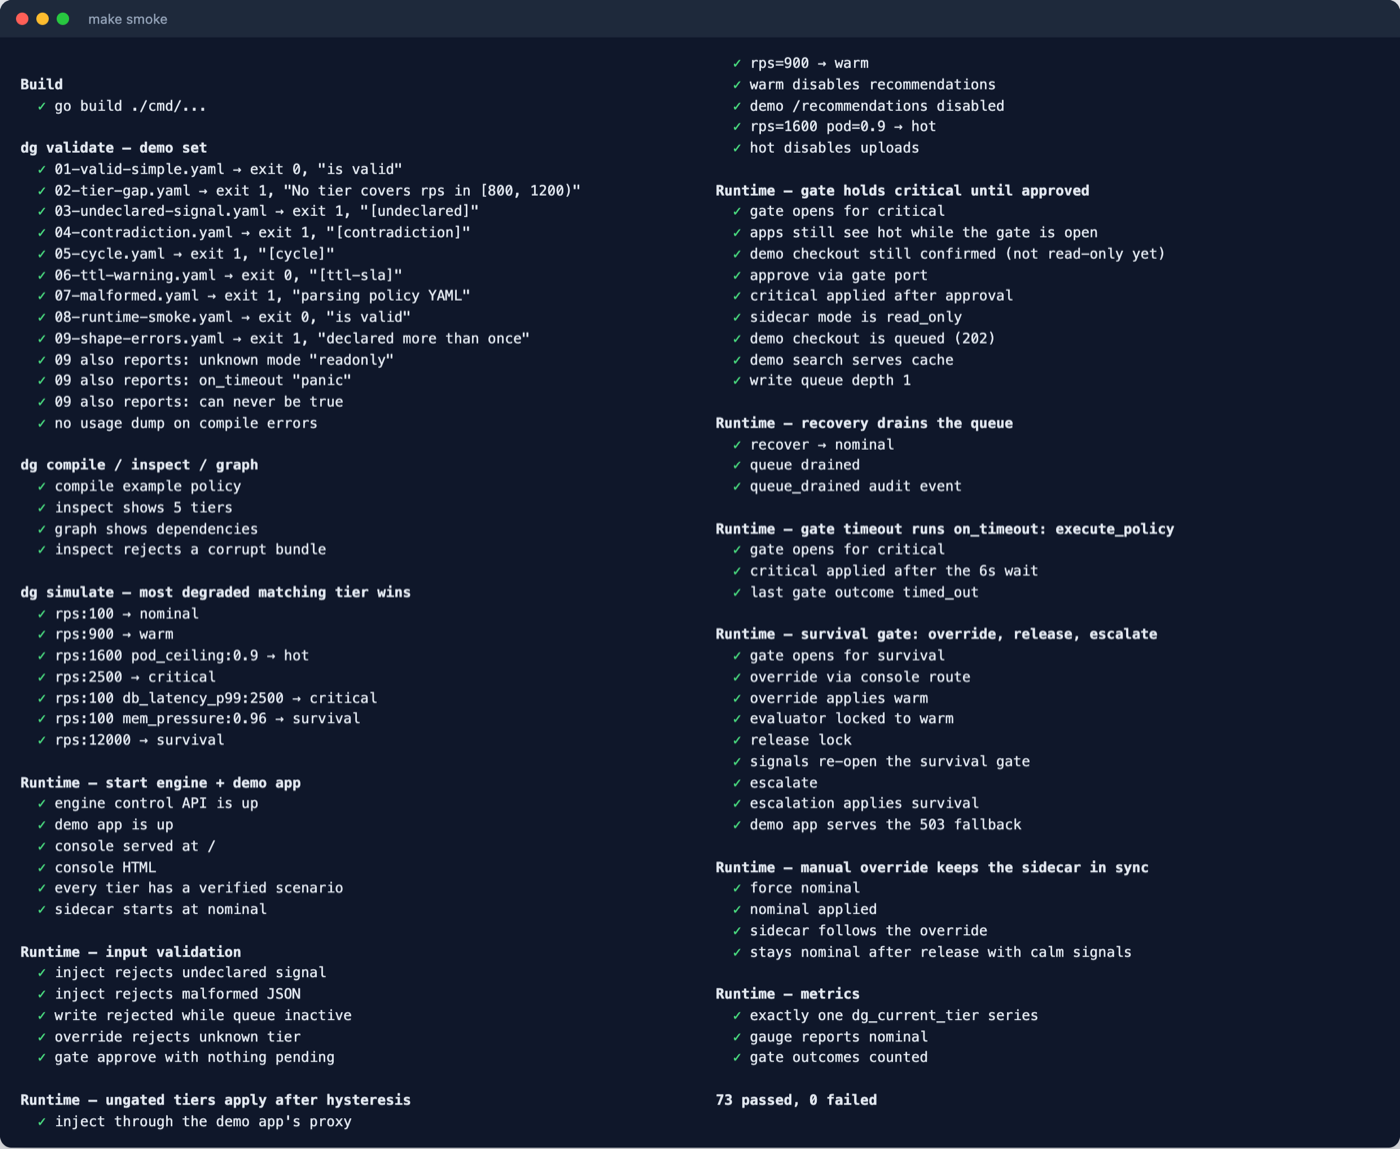
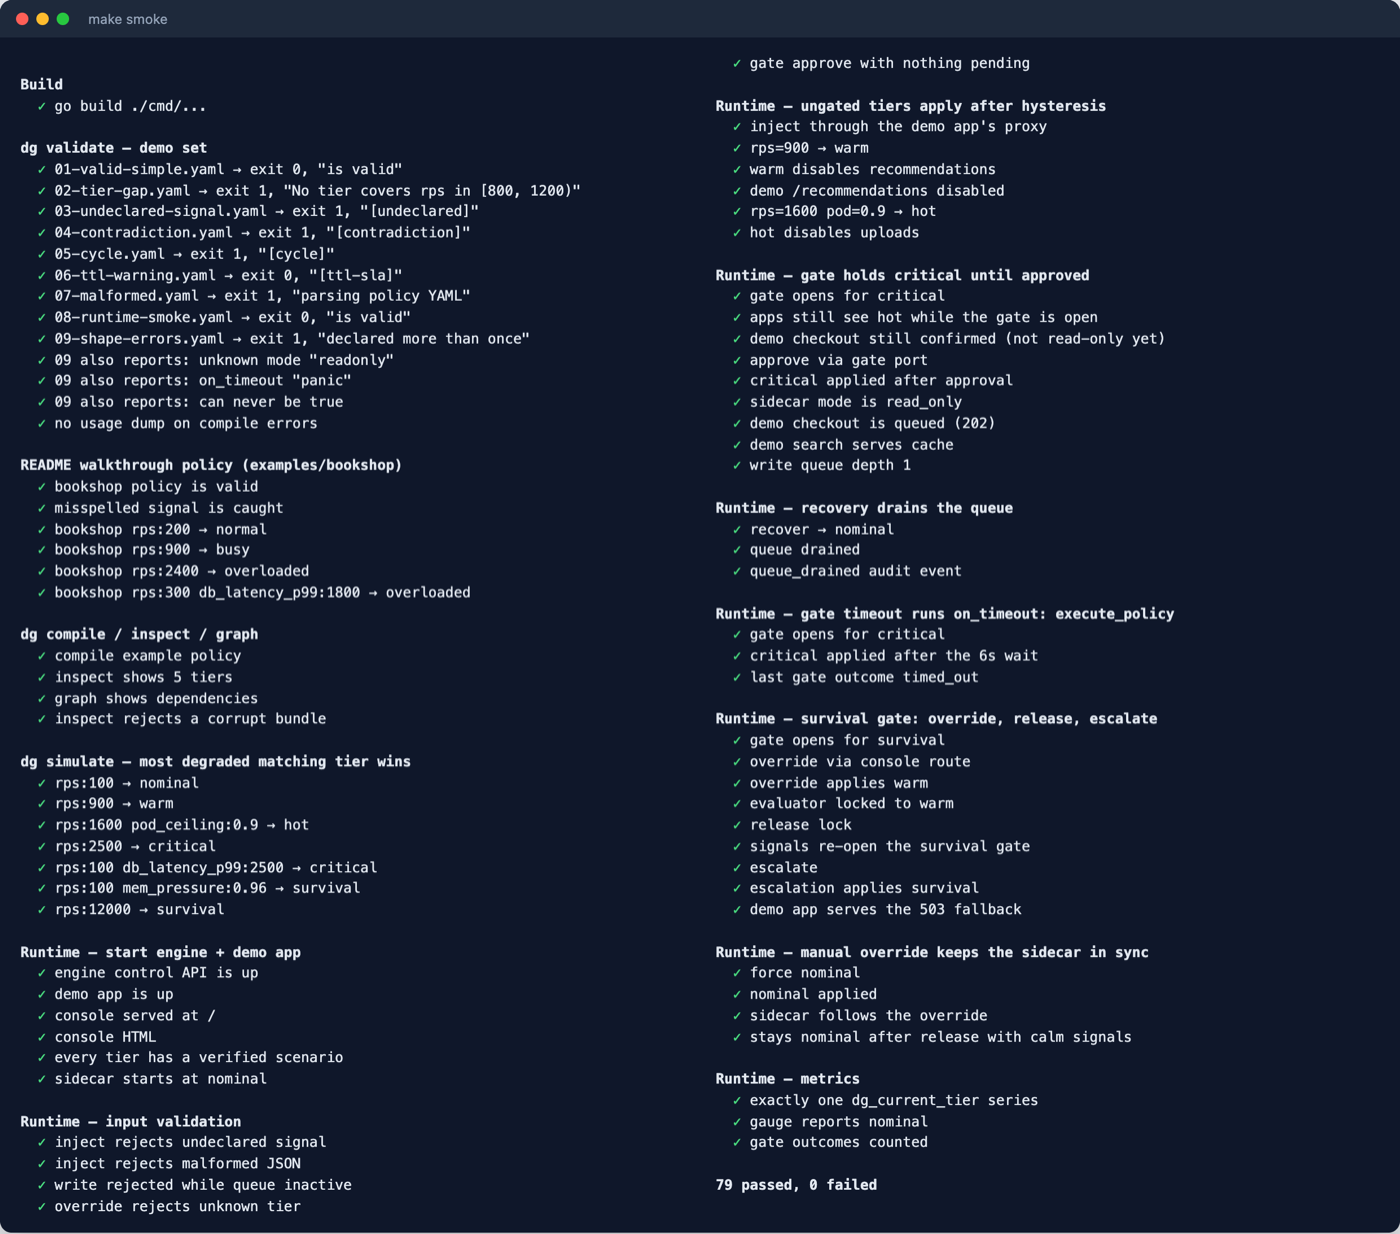
docs: add bookshop flash-sale walkthrough with diagrams
A start-to-finish illustrative story in the README: writing the contract,
the compiler catching a misspelled signal, wiring the app to /flags, a
timeline of the sale (busy → gate held → approved → read-only with buffered
orders → recovery), the operator's gate options, and the audit trail.
Three Mermaid diagrams: overall flow, tier state machine, gate decisions.

The policy lives in examples/bookshop/ and the smoke test now checks it
(validation, the typo diagnostic, and the story's simulate cases), so the
walkthrough can't silently drift from the code. Smoke screenshot refreshed.

Changed region(s): [[0.0, 0.0609, 0.43, 1.0], [0.4914, 0.0305, 0.8293, 0.9748], [0.0614, 0.0, 0.1229, 0.0305]]

diff --git a/README.md b/README.md
@@ -41,6 +41,7 @@
 [Testing](#testing) ·
 [Repository layout](#repository-layout) ·
 [Known limitations](#known-limitations) ·
+[Walkthrough](#walkthrough-a-bookshop-flash-sale) ·
 [Contributing](#contributing) ·
 [Roadmap](docs/ROADMAP.md)
 
@@ -72,6 +73,8 @@ degradation.yaml ──► dg compile ──► policy.dg ──► dg-engine
                                                   ├─ gate callbacks :9292  (Slack / PagerDuty / curl)
                                                   └─ Prometheus metrics :9090, NDJSON audit log
 ```
+
+New to IDDC? The [bookshop walkthrough](#walkthrough-a-bookshop-flash-sale) tells the whole story with diagrams.
 
 The engine follows five rules:
 
@@ -151,7 +154,7 @@ Captured from a live engine + demo shop session (the console was driven by click
 |---|---|
 | **Console, `hot` tier.** Ladder, signals, flags and the event log (the gate view is at the top of this page).<br>![console overview](docs/screenshots/console-overview.png) | **After approving the gate.** `critical` is enforced (read-only), features are off, writes are buffered.<br>![console in critical](docs/screenshots/console-critical.png) |
 | **Demo shop in `critical`.** Reacts to the sidecar's mode and flags.<br>![demo shop critical](docs/screenshots/demo-shop-critical.png) | **Demo shop in `survival`.** Static 503 fallback page.<br>![demo shop survival](docs/screenshots/demo-shop-survival.png) |
-| **Policy lab.** Validates pasted YAML and flags a tier gap.<br>![policy lab](docs/screenshots/console-policy-lab.png) | **`make smoke`.** 73 end-to-end checks.<br>![smoke test output](docs/screenshots/terminal-smoke.png) |
+| **Policy lab.** Validates pasted YAML and flags a tier gap.<br>![policy lab](docs/screenshots/console-policy-lab.png) | **`make smoke`.** End-to-end checks against real binaries, all green.<br>![smoke test output](docs/screenshots/terminal-smoke.png) |
 
 Terminal snaps: [`dg` diagnostics and simulate](#compiler-diagnostics), and [a `dg-engine` session with a gate held and then approved](#human-gate).
 
@@ -452,7 +455,7 @@ make smoke        # end-to-end smoke test (needs curl + python3)
 
 A full run is pictured in [Screenshots](#screenshots).
 
-`scripts/smoke.sh` runs 73 checks against real binaries:
+`scripts/smoke.sh` runs its checks against real binaries:
 
 - **CLI:** `dg validate` against every policy in `examples/demo-set/` (exit codes and exact diagnostics), `compile`/`inspect`/`graph`, corrupt-bundle handling, and a `simulate` matrix.
 - **Runtime:** it starts `dg-engine` and the demo app, then walks the whole ladder over HTTP:
@@ -528,7 +531,9 @@ These are known gaps, and good first contributions. Each has an entry in the [ro
 │   ├── collector/           /proc collector (+ eBPF variant, build tag linux && ebpf)
 │   └── audit/ metrics/ config/
 ├── config/                  example policy + engine configs (prod and dev)
-├── examples/demo-set/       policies exercising every compiler diagnostic + the runtime smoke policy
+├── examples/
+│   ├── demo-set/            policies exercising every compiler diagnostic + the runtime smoke policy
+│   └── bookshop/            the policy from the README walkthrough
 ├── deploy/
 │   ├── docker/              Dockerfile for the demo image
 │   ├── observability/       docker-compose for Prometheus + Grafana, with provisioning
@@ -547,6 +552,175 @@ These are known gaps, and good first contributions. Each has an entry in the [ro
 ```
 
 Build output (`bin/`, `dist/`) is gitignored. `make clean` removes it, along with binaries that older versions of the Makefile left in the root.
+
+---
+
+## Walkthrough: a bookshop flash sale
+
+This is an illustrative story, start to finish. A small online bookshop API adopts IDDC, then gets hit by a flash sale. The policy is in [`examples/bookshop/degradation.yaml`](examples/bookshop/degradation.yaml); every command output below is real.
+
+### The big picture
+
+```mermaid
+flowchart LR
+    subgraph design ["Design time (code review + CI)"]
+        Y["degradation.yaml"] --> V{"dg validate"}
+        V -- "errors" --> Y
+        V -- "ok" --> C["dg compile → policy.dg"]
+    end
+    subgraph run ["Runtime"]
+        P[("Prometheus")] -- "rps, db_latency_p99" --> E["dg-engine"]
+        C --> E
+        E -- "GET /flags" --> A["bookshop-api"]
+        E -- "gate opened" --> O["On-call engineer<br/>(Slack / PagerDuty / console)"]
+        O -- "approve · override · escalate" --> E
+        A -- "orders in read-only mode" --> Q[["write queue"]]
+        Q -. "drained on recovery" .-> A
+    end
+    U(("Customers")) --> A
+```
+
+### 1. Write the contract
+
+Next to the deployment files, the team adds `degradation.yaml`. In plain terms it says: shed extras when busy, and go read-only when overloaded, but only after a human has had a chance to say no.
+
+```yaml
+service: bookshop-api
+version: "1.0.0"
+
+signals:
+  - id: rps                  # requests per second
+    source: prometheus
+  - id: db_latency_p99       # slowest 1% of DB queries, in ms
+    source: prometheus
+
+tiers:                       # least → most degraded
+  - name: normal
+    when: { rps: { lt: 500 } }
+    behavior: { mode: full_service }
+
+  - name: busy
+    when: { rps: { gte: 500, lt: 2000 } }
+    behavior:
+      mode: full_service
+      disable: [recommendations, reviews]      # shed the expensive extras
+
+  - name: overloaded
+    when:
+      any_of:
+        - rps: { gte: 2000 }
+        - db_latency_p99: { gte: 1500 }
+    human_gate: { wait: 60s, on_timeout: execute_policy }
+    behavior:
+      mode: read_only                          # browsing works, orders are buffered
+      queue_writes: { max_depth: 5000, ttl: 10m }
+```
+
+Read as a state machine, the ladder looks like this (thresholds must hold for the hysteresis window before a move happens: 30s up and 90s down by default):
+
+```mermaid
+stateDiagram-v2
+    state "human gate: apps stay on busy" as gate
+    [*] --> normal
+    normal --> busy: rps ≥ 500
+    busy --> gate: rps ≥ 2000 or db p99 ≥ 1500
+    gate --> overloaded: approved, or 60s timeout (execute_policy)
+    gate --> busy: override / signals calm down
+    overloaded --> busy: rps < 2000 and db p99 < 1500
+    busy --> normal: rps < 500
+```
+
+### 2. The compiler catches a mistake before it ships
+
+Someone misspells a signal name in a later change. CI fails the build:
+
+```text
+$ dg validate degradation.yaml
+  ERROR   [undeclared] Tier "overloaded" references signal "db_latancy_p99" but it is not declared in signals:
+Compilation failed with 1 error(s), 0 warning(s).
+```
+
+Without the check, the slow-database trigger would have silently never fired. Once the typo is fixed:
+
+```text
+$ dg compile degradation.yaml -o policy.dg
+✓  compiled → policy.dg  (service=bookshop-api  tiers=3)
+
+$ dg simulate degradation.yaml --signal rps:300 --signal db_latency_p99:1800
+Matched tier: overloaded        ← a slow database alone is enough
+  mode: read_only
+```
+
+> Tier-gap detection only analyses ladders where every tier checks the same single signal. Because `overloaded` combines two signals, a gap in the `rps` bands of this policy would **not** be reported. `dg simulate` and the console's policy lab are the way to probe compound ladders (see [Known limitations](#known-limitations)).
+
+### 3. Connect the app
+
+`dg-engine` runs next to the API and serves feature flags on `:8081`. The app asks before doing optional work, and it reacts to `mode` and `features`, never to tier names:
+
+```go
+flags := getFlags("http://localhost:8081/flags")
+// in busy: {"tier":"busy","mode":"full_service","features":{"recommendations":false,"reviews":false}}
+
+if flags.Features["recommendations"] { showRecommendations() }
+if flags.Mode == "read_only" { bufferOrder() }   // POST http://dg-engine:9191/write
+```
+
+### 4. Sale day
+
+| Time | What's happening | What IDDC does | What customers see |
+|---|---|---|---|
+| 09:00 | 200 rps, DB fast | **normal** | Everything on |
+| 09:05 | Sale starts: 900 rps | Proposes **busy** and waits 30s to be sure it isn't a blip | Everything still on |
+| 09:05:30 | Still 900 rps | Applies **busy**; turns off `recommendations` and `reviews` | Fast pages, no "you may also like" |
+| 09:10 | 2,400 rps, DB slowing | Proposes **overloaded**, a gated tier, so it **holds**: apps stay on `busy`, on-call is notified, and the console shows `busy → overloaded` with a 60s countdown | No change yet |
+| 09:10:20 | On-call clicks **Approve** | Applies **overloaded**: `read_only`, write queue on. (With no answer, `execute_policy` would apply it at 60s anyway.) | Browsing works; "Order received, processing shortly" |
+| 09:10–09:25 | Orders keep arriving | Orders are buffered (up to 5,000, kept 10 min) instead of hammering the database | Nobody sees an error page |
+| 09:25 | Traffic falls to 700 rps | Waits 90s, then drops to **busy** and **drains the queue** | Checkout works normally again |
+| 09:40 | Back to 150 rps | 90s later: **normal** | Everything back on |
+
+What the on-call engineer could have done at 09:10 instead:
+
+```mermaid
+flowchart TD
+    P["Evaluator: signals match 'overloaded'"] --> G{{"Human gate open<br/>apps stay on 'busy'<br/>Slack · PagerDuty · console"}}
+    G -- "Approve, or 60s pass<br/>(on_timeout: execute_policy)" --> O["overloaded<br/>read_only + queue writes"]
+    G -- "Override → busy for 15 min<br/>(the DB team says it's fine)" --> B["stay on busy, evaluator locked"]
+    G -- "Escalate" --> S["most degraded tier, locked"]
+    G -- "Signals calm down first" --> X["gate superseded, nothing applied"]
+```
+
+### 5. The paper trail
+
+Every step is recorded as one NDJSON line in the audit log. This is the actual output from replaying the story:
+
+```json
+{"event":"gate_fired","service":"bookshop-api","tier":"overloaded","from_tier":"busy",…}
+{"event":"tier_transition","service":"bookshop-api","from_tier":"busy","to_tier":"overloaded","reason":"gate approved",…}
+{"event":"queue_drained","service":"bookshop-api","tier":"busy","count":3,…}
+```
+
+Prometheus has the same story as metrics (`dg_current_tier`, `dg_gate_events_total{outcome="approved"}`, `dg_write_queue_depth`), and the console's event log shows it live.
+
+> **Heads-up:** draining currently hands the buffered writes back to the engine, which counts and logs them. Replaying them into your database is up to your integration (it's on the [roadmap](docs/ROADMAP.md)).
+
+### Replay it yourself
+
+```bash
+make build-all
+bin/dg compile examples/bookshop/degradation.yaml -o bin/bookshop.dg
+bin/dg-engine --policy bin/bookshop.dg --config config/dg-engine-dev.yaml   # 3s/5s hysteresis
+# in another terminal, play the sale:
+curl -XPOST localhost:9191/inject -d '{"rps":900}'                          # → busy
+curl -XPOST localhost:9191/inject -d '{"rps":2400,"db_latency_p99":900}'    # → gate opens
+curl -XPOST localhost:9292/gate/approve                                     # → overloaded
+curl -XPOST localhost:9191/write -d '{"id":"order-1"}'                      # buffered order
+curl -XPOST localhost:9191/inject -d '{"rps":700,"db_latency_p99":40}'      # → busy, queue drained
+curl -XPOST localhost:9191/inject -d '{"rps":150}'                          # → normal
+```
+
+Or open http://localhost:9191 and click through the same story in the console.
+
+The point: the hard decision ("at 2,000 rps or a slow database we go read-only and buffer orders, but a human gets 60 seconds to say no") was made calmly in a code review, not by someone half-awake mid-incident. IDDC then carries it out the same way every time.
 
 ---
 

diff --git a/CHANGELOG.md b/CHANGELOG.md
@@ -11,10 +11,11 @@ First public release candidate.
 - Control API: `/api/status`, `/api/policy`, `/api/events`, `/api/validate`, `/api/simulate`, `/override/release`. Gate routes are mirrored on the control port.
 - Human-gate semantics: upward moves into gated tiers are held until approve, override, escalate or `on_timeout` (`execute_policy`, `hold`, `escalate`). A gate is superseded if signals move elsewhere.
 - Compiler checks for duplicate tiers, unknown `mode` / `on_timeout`, gates without `wait`, impossible ranges, and values above the top tier.
-- `examples/demo-set/` policies covering every diagnostic; `scripts/smoke.sh` end-to-end test (73 checks).
+- `examples/demo-set/` policies covering every diagnostic; `scripts/smoke.sh` end-to-end test.
 - Per-signal `query:` (PromQL), `poll_cadence`, `stale_signal_timeout`, `signal_bus.mode` (`auto` / `inject`) and configurable listen addresses.
 - `dg --version`, `dg-engine --version`; release archives for Linux, macOS and Windows; `ghcr.io/saqlainap/iddc` image; Helm chart in `deploy/helm/dg`.
 - LICENSE (MIT), CONTRIBUTING, CODE_OF_CONDUCT, SECURITY, issue/PR templates, Dependabot.
+- README walkthrough ("A bookshop flash sale") with Mermaid diagrams; its policy lives in `examples/bookshop/` and is checked by the smoke test.
 
 ### Changed
 - **Breaking:** the Go module path is now `github.com/SAQLAINAP/Intent-Driven-Degradation-Contract` (was `iddc`).
